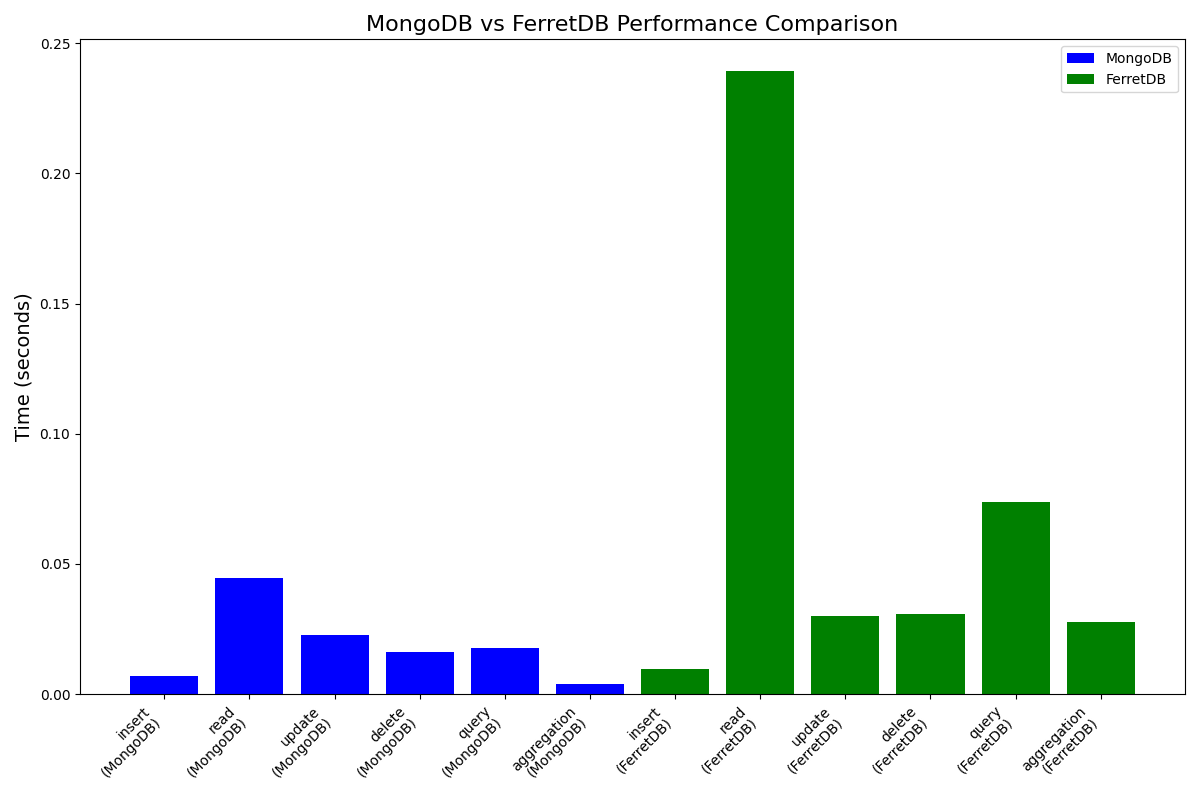
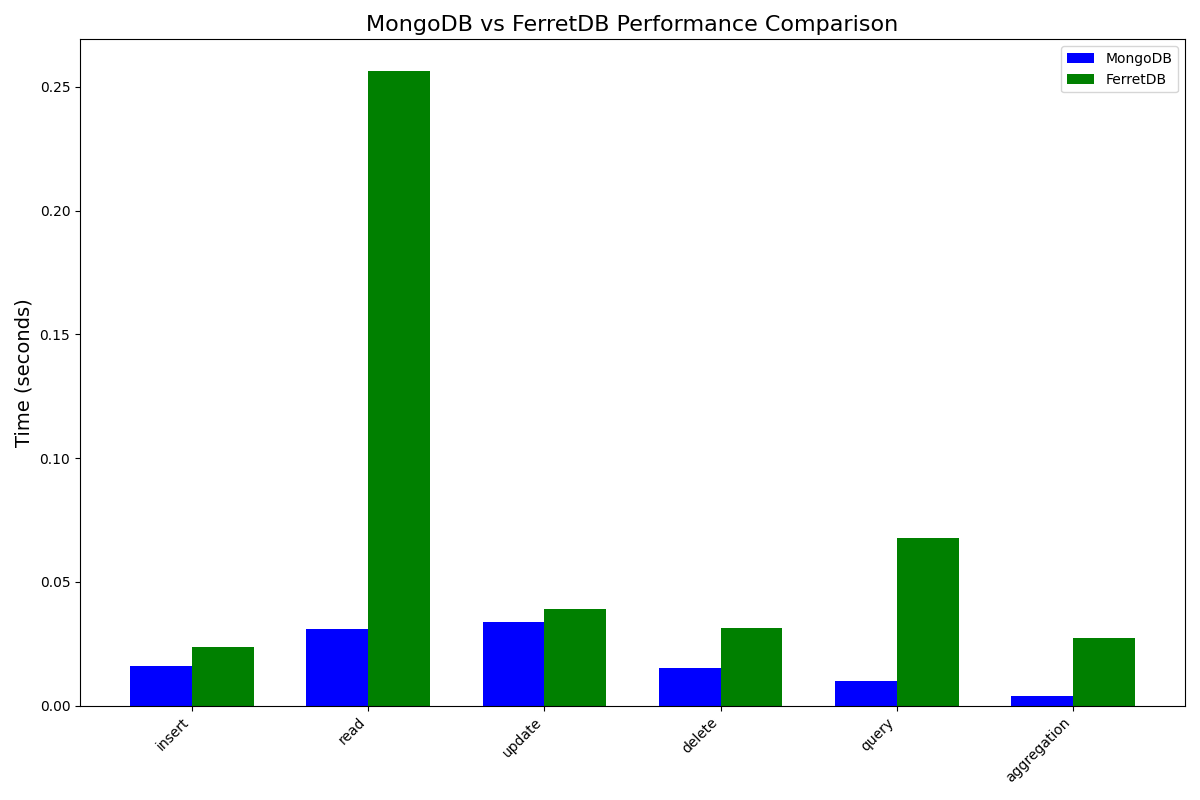
Modify generated plot to show the same operations next to eachother.

diff --git a/mongodb_vs_ferretdb.py b/mongodb_vs_ferretdb.py
@@ -340,32 +340,26 @@ class DatabaseComparison:
             'FerretDB': ferretdb_times
         })
 
-        # Melt the DataFrame for grouped bar chart
-        df_melted = pd.melt(df, id_vars=['Operation'], value_vars=['MongoDB', 'FerretDB'],
-                           var_name='Database', value_name='Time (seconds)')
-
         # Create the plot
         fig = plt.figure(figsize=(12, 8))
-
-        # Create grouped bar chart
         ax = plt.subplot(111)
-        bars = ax.bar(x=np.arange(len(operations) * 2), height=df_melted['Time (seconds)'],
-               color=['blue' if db == 'MongoDB' else 'green' for db in df_melted['Database']])
+
+        # Set the positions for the bars
+        bar_width = 0.35
+        x = np.arange(len(operations))
+
+        # Create grouped bar chart with bars next to each other for each operation
+        mongo_bars = ax.bar(x - bar_width/2, mongodb_times, bar_width, color='blue', label='MongoDB')
+        ferret_bars = ax.bar(x + bar_width/2, ferretdb_times, bar_width, color='green', label='FerretDB')
 
         # Add labels and title
         ax.set_title('MongoDB vs FerretDB Performance Comparison', fontsize=16)
         ax.set_ylabel('Time (seconds)', fontsize=14)
-        ax.set_xticks(np.arange(len(operations) * 2))
-        ax.set_xticklabels([f"{op}\n({db})" for op, db in zip(df_melted['Operation'], df_melted['Database'])],
-                  rotation=45, ha='right')
+        ax.set_xticks(x)
+        ax.set_xticklabels(operations, rotation=45, ha='right')
 
-        # Add a legend with explicit handles for each database
-        from matplotlib.patches import Patch
-        legend_elements = [
-            Patch(facecolor='blue', label='MongoDB'),
-            Patch(facecolor='green', label='FerretDB')
-        ]
-        ax.legend(handles=legend_elements)
+        # Add a legend using the labels from the bar chart
+        ax.legend()
 
         plt.tight_layout()
         plt.savefig('mongodb_vs_ferretdb.png')
